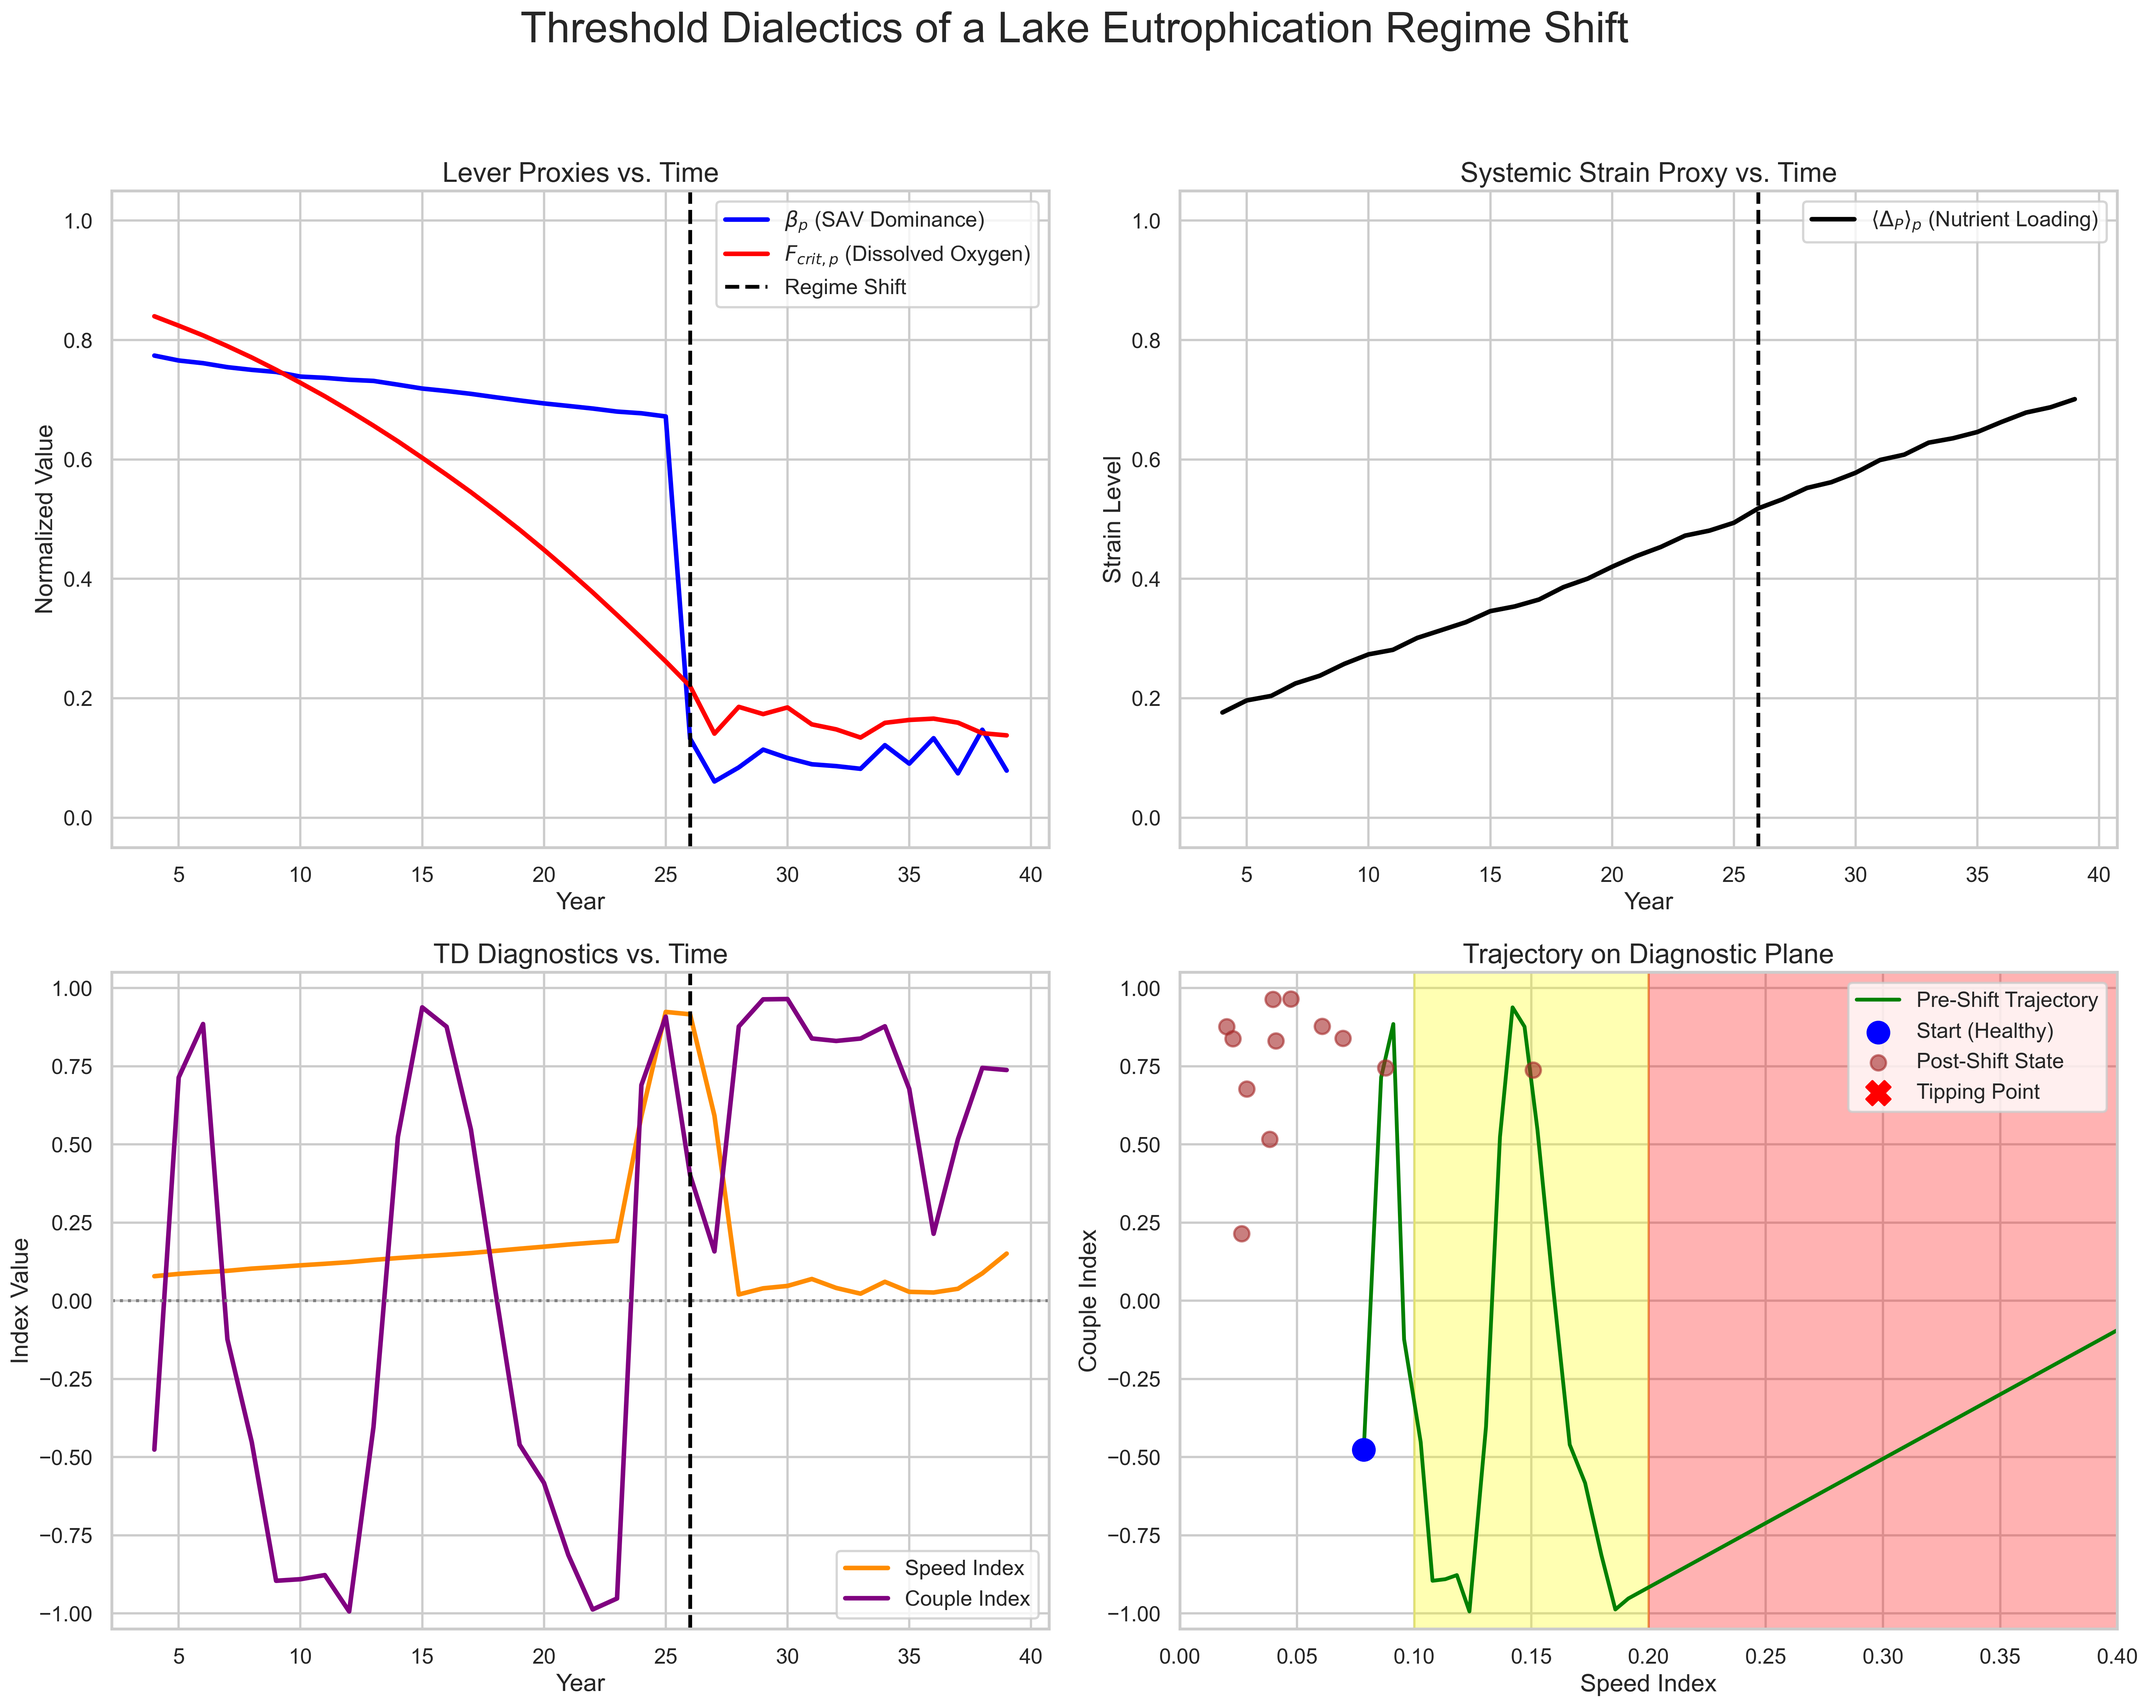
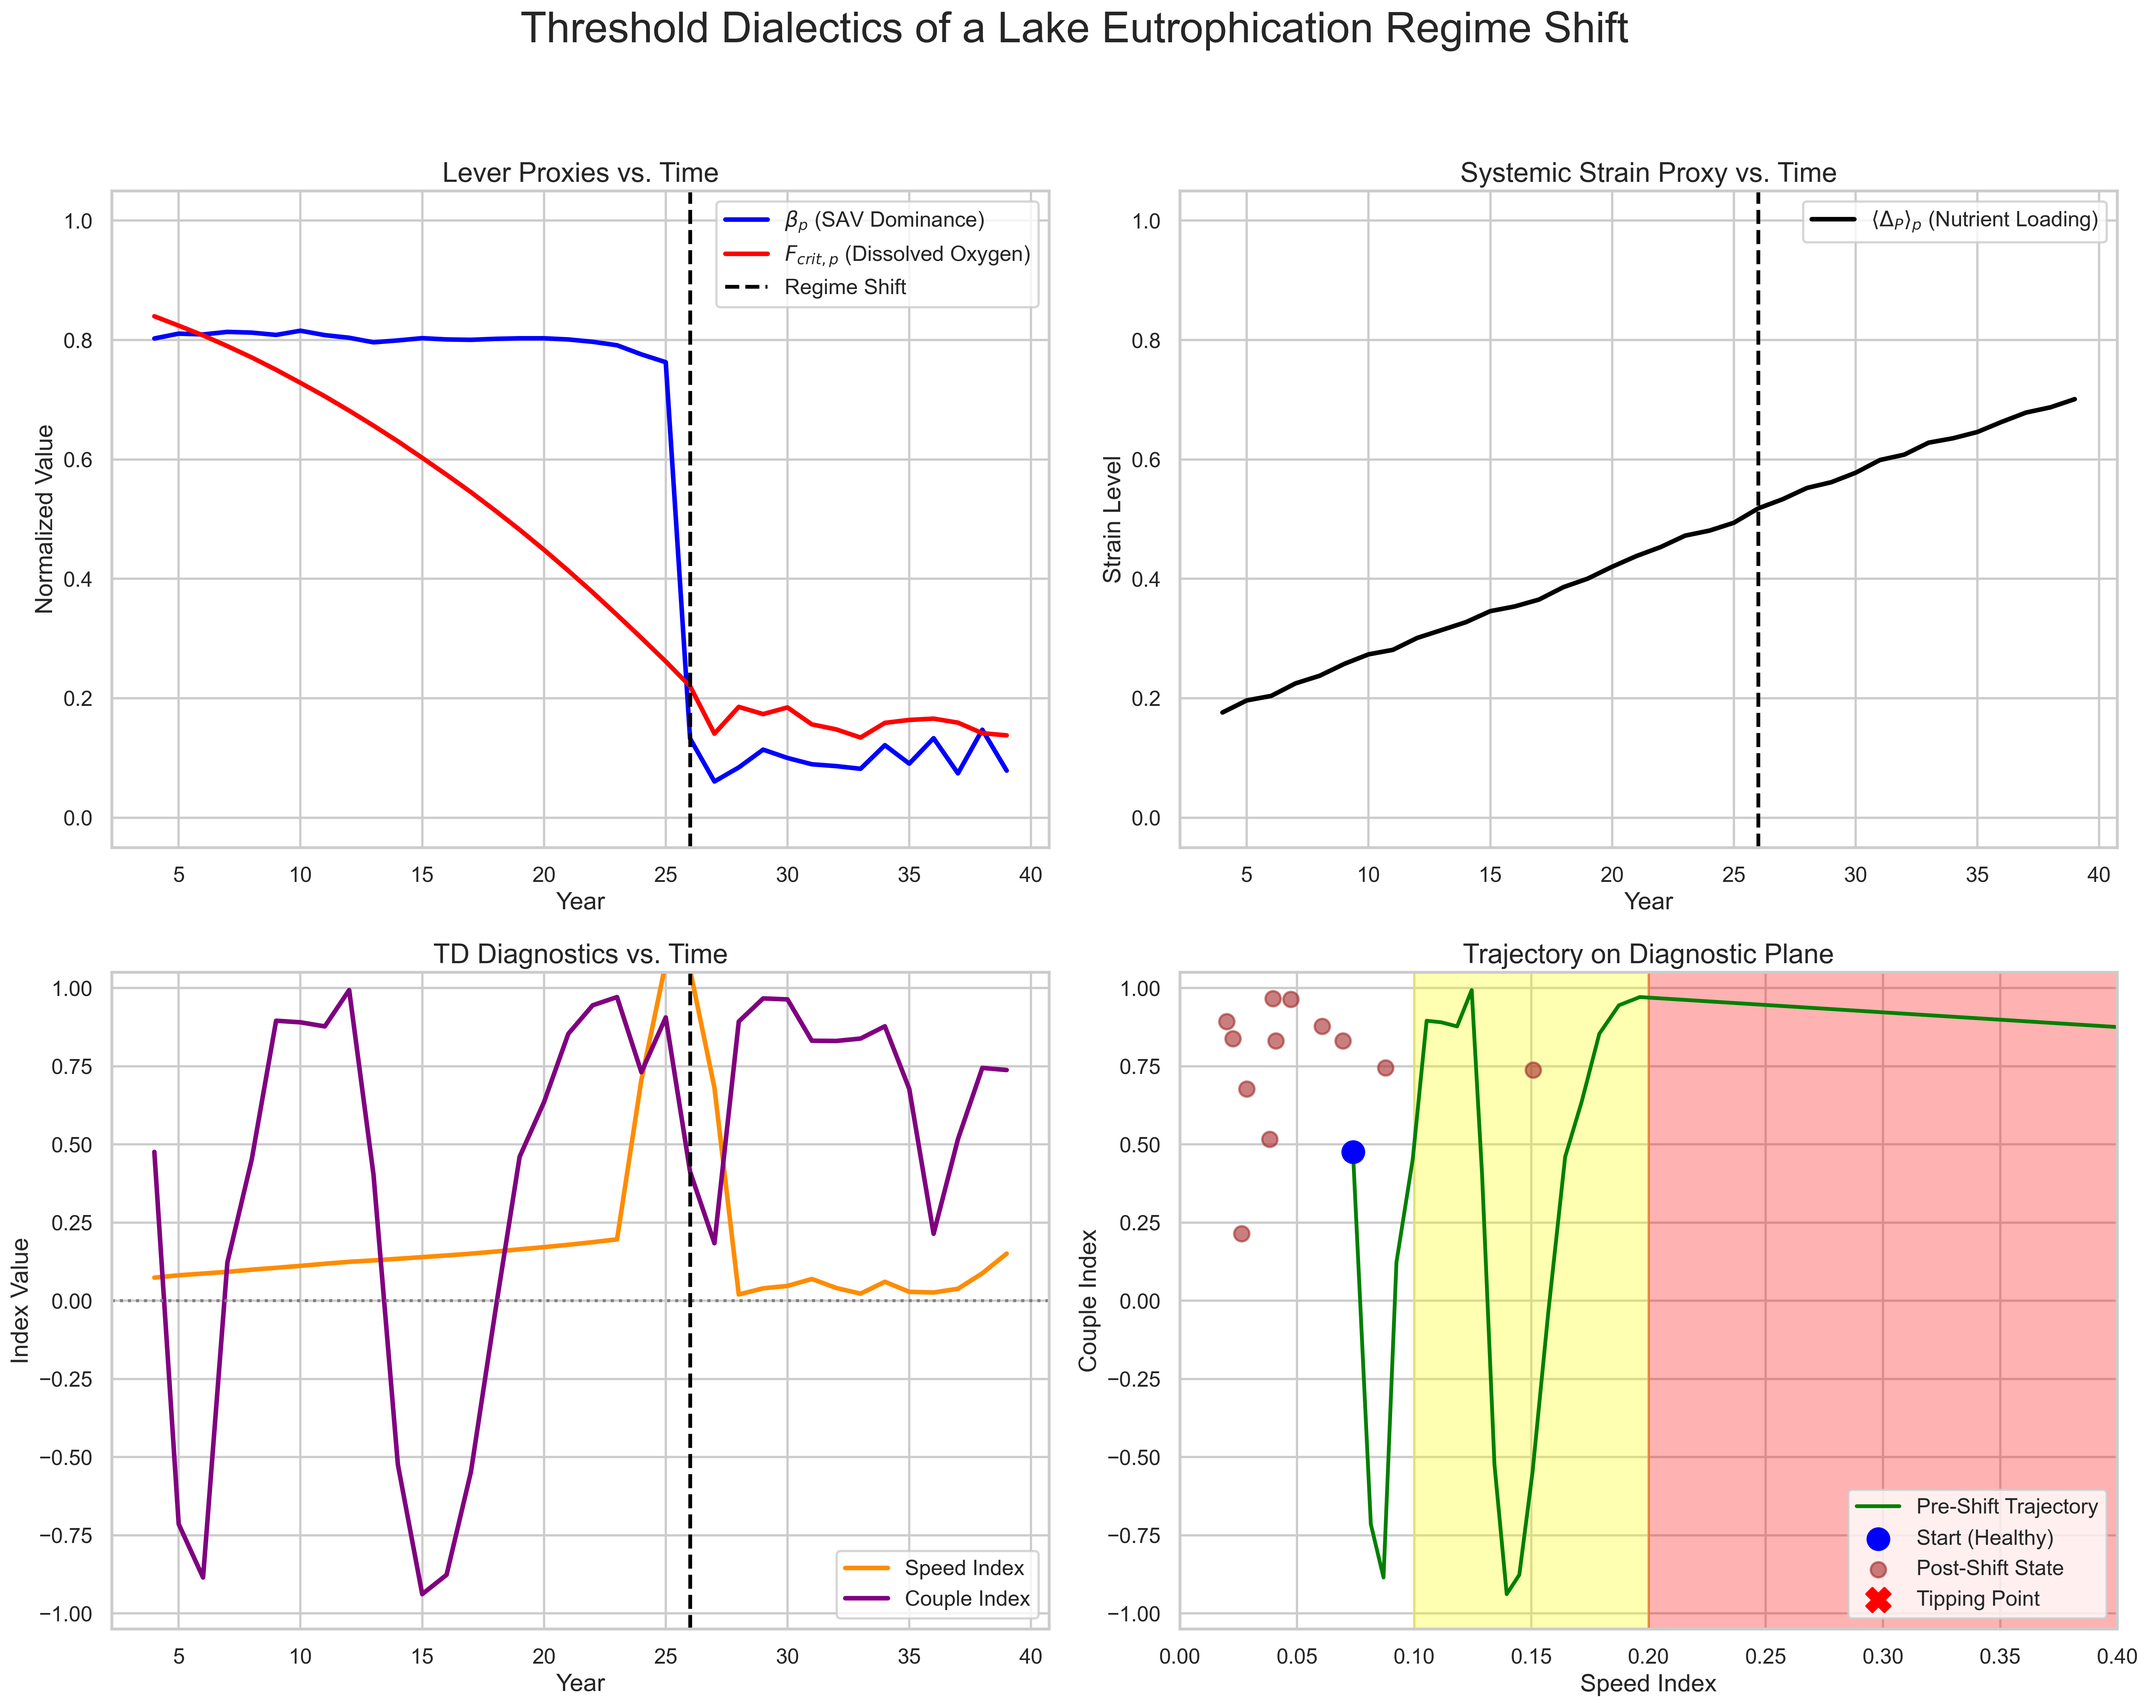
Completed

diff --git a/echo_bubble_19A.py b/echo_bubble_19A.py
@@ -141,93 +141,130 @@ def calculate_td_diagnostics(df, couple_window=10, smooth_window=7):
     return df.dropna()
 
 def plot_financial_cascade(df):
-    """Generates a 2x2 plot for the full bubble lifecycle."""
+    """
+    Generates a final, PUBLICATION-QUALITY 2x2 plot for the bubble lifecycle,
+    using a unified color scheme and a high-contrast "cased line" for clarity.
+    """
+    # Use the seaborn 'whitegrid' style for consistency with the lake figure
+    sns.set_theme(style="whitegrid", context="talk")
+    
     fig, axes = plt.subplots(2, 2, figsize=(20, 16))
     fig.suptitle('Threshold Dialectics of a Financial "Echo Bubble"', fontsize=28, y=0.98)
-    
-    # --- Define colors for phases ---
-    phase_colors = {
-        'P1_Lull': 'gray', 'P2_Emerge': 'lightblue', 'P3_Inflate': 'lightcoral',
-        'P4_Fragility': 'lightsalmon', 'P5_Correct': 'lightskyblue', 'P6_Reset': 'lightgray'
-    }
 
-    # --- Panel 1: Lever Proxies ---
+    # --- FINAL, REFINED Narrative and Styling Configuration ---
+    # Unified color palette with more distinct colors for each narrative phase
+    NARRATIVE_COLORS = {
+        'Pre-Bubble (P1-P2)': '#B0C4DE',  # Light Steel Blue
+        'Inflation (P3-P4)': '#FF6347',    # Tomato Red (More vibrant)
+        'Correction (P5-P6)': '#87CEEB', # Sky Blue (Distinct from Pre-Bubble)
+    }
+    # Map individual phases to their narrative group color
+    PHASE_TO_NARRATIVE_COLOR = {
+        'P1_Lull': NARRATIVE_COLORS['Pre-Bubble (P1-P2)'],
+        'P2_Emerge': NARRATIVE_COLORS['Pre-Bubble (P1-P2)'],
+        'P3_Inflate': NARRATIVE_COLORS['Inflation (P3-P4)'],
+        'P4_Fragility': NARRATIVE_COLORS['Inflation (P3-P4)'],
+        'P5_Correct': NARRATIVE_COLORS['Correction (P5-P6)'],
+        'P6_Reset': NARRATIVE_COLORS['Correction (P5-P6)'],
+    }
+    LINE_COLORS = {'beta_p': 'blue', 'fcrit_p': 'red', 'strain_p': 'black',
+                   'SpeedIndex': 'darkorange', 'CoupleIndex': 'purple'}
+
+    # --- Identify Key Event Time for Annotation ---
+    correction_start_week = df[df['phase'] == 'P5_Correct'].index.min()
+
+    # --- Time-Series Plots (Panels 1, 2, 3) ---
+    # Panel 1: Lever Proxies
     ax = axes[0, 0]
-    ax.plot(df.index, df['beta_p'], color='blue', lw=3, label=r'$\beta_p$ (Valuation Consensus)')
-    ax.plot(df.index, df['fcrit_p'], color='red', lw=3, label=r'$F_{crit,p}$ (Margin Debt)')
+    ax.plot(df.index, df['beta_p'], color=LINE_COLORS['beta_p'], lw=3, label=r'$\beta_p$ (Valuation Consensus)')
+    ax.plot(df.index, df['fcrit_p'], color=LINE_COLORS['fcrit_p'], lw=3, label=r'$F_{crit,p}$ (Margin Debt)')
+    ax.axvline(correction_start_week, color='black', linestyle='--', lw=2.5, label='Correction Start')
     ax.set_title('Lever Proxies vs. Time', fontsize=18)
     ax.set_ylabel('Normalized Value', fontsize=16)
-    ax.set_ylim(-0.05, 1.05)
-    ax.legend(loc='best', fontsize=14)
-    
-    # --- Panel 2: Systemic Strain ---
+    ax.legend(loc='upper left', fontsize=14)
+
+    # Panel 2: Systemic Strain
     ax = axes[0, 1]
-    ax.plot(df.index, df['strain_p'], color='black', lw=3, label=r'$\langle\Delta_P\rangle_p$ (Price Deviation)')
+    ax.plot(df.index, df['strain_p'], color=LINE_COLORS['strain_p'], lw=3, label=r'$\langle\Delta_P\rangle_p$ (Price Deviation)')
+    ax.axvline(correction_start_week, color='black', linestyle='--', lw=2.5)
     ax.set_title('Systemic Strain Proxy vs. Time', fontsize=18)
-    ax.set_ylabel('Strain Level', fontsize=16)
-    ax.set_ylim(-0.05, 1.05)
-    ax.legend(loc='best', fontsize=14)
-         
-    # --- Panel 3: TD Diagnostics ---
+    ax.legend(loc='upper left', fontsize=14)
+
+    # Panel 3: TD Diagnostics
     ax = axes[1, 0]
-    ax.plot(df.index, df['SpeedIndex'], color='darkorange', lw=3, label='Speed Index')
-    ax.plot(df.index, df['CoupleIndex'], color='purple', lw=3, label='Couple Index')
+    ax.plot(df.index, df['SpeedIndex'], color=LINE_COLORS['SpeedIndex'], lw=3, label='Speed Index')
+    ax.plot(df.index, df['CoupleIndex'], color=LINE_COLORS['CoupleIndex'], lw=3, label='Couple Index')
     ax.axhline(0, color='gray', linestyle=':', lw=2)
+    ax.axvline(correction_start_week, color='black', linestyle='--', lw=2.5)
     ax.set_title('TD Diagnostics vs. Time', fontsize=18)
     ax.set_ylabel('Index Value', fontsize=16)
-    ax.set_ylim(-1.05, 1.05)
     ax.legend(loc='best', fontsize=14)
-    
-    # --- Panel 4: S/C Diagnostic Plane ---
+
+    # --- Panel 4: Trajectory on Diagnostic Plane (FINAL POLISHED VERSION) ---
     ax = axes[1, 1]
     # Risk zones
-    ax.axvspan(0.04, 0.08, color='yellow', alpha=0.3)
-    ax.axvspan(0.08, 0.2, color='red', alpha=0.3)
-    ax.axhspan(0.5, 1.05, color='red', alpha=0.3)
-    
-    # Plot trajectory with color gradient over time
-    points = np.array([df['SpeedIndex'], df['CoupleIndex']]).T.reshape(-1, 1, 2)
-    segments = np.concatenate([points[:-1], points[1:]], axis=1)
-    norm = plt.Normalize(df.index.min(), df.index.max())
-    lc = plt.cm.plasma(norm(df.index))
-    
-    for i in range(len(df)-1):
-        ax.plot(df['SpeedIndex'][i:i+2], df['CoupleIndex'][i:i+2], color=lc[i], lw=2.5)
+    ax.axvspan(0.06, 0.1, color='yellow', alpha=0.3, zorder=-2)
+    ax.axvspan(0.1, 0.2, color='red', alpha=0.3, zorder=-2)
+    ax.axhspan(0.7, 1.05, color='red', alpha=0.3, zorder=-2)
+    ax.axhspan(-1.05, -0.7, color='red', alpha=0.3, zorder=-2)
+
+    # Plot trajectories with special handling for the Inflation phase
+    for group_name, color in NARRATIVE_COLORS.items():
+        phase_list = [p for p, c in PHASE_TO_NARRATIVE_COLOR.items() if c == color]
+        group_data = df[df['phase'].isin(phase_list)]
+        
+        # --- THIS IS THE KEY IMPROVEMENT ---
+        if group_name == 'Inflation (P3-P4)':
+            # Plot a thicker black line underneath to create a "cased line" effect
+            ax.plot(group_data['SpeedIndex'], group_data['CoupleIndex'],
+                    color='black', lw=5, zorder=3)
+            # Plot the main colored line on top
+            ax.plot(group_data['SpeedIndex'], group_data['CoupleIndex'],
+                    color=color, lw=3, label=group_name, zorder=4)
+        else:
+            # Plot other phases normally
+            ax.plot(group_data['SpeedIndex'], group_data['CoupleIndex'],
+                    color=color, lw=4, label=group_name, zorder=2) # zorder=2 to be behind markers
+            
+    # Add key event markers with enhanced visibility
+    start_point = df.iloc[0]
+    correction_point = df.loc[correction_start_week]
+    ax.scatter(start_point['SpeedIndex'], start_point['CoupleIndex'],
+               marker='o', s=250, color='blue', ec='black', lw=1.5, zorder=5, label='Start')
+    ax.scatter(correction_point['SpeedIndex'], correction_point['CoupleIndex'],
+               marker='X', s=300, color='white', ec='black', lw=1.5, zorder=5, label='Correction Start') # White 'X' for max contrast
 
     ax.set_title('Trajectory on Diagnostic Plane', fontsize=18)
     ax.set_xlabel('Speed Index', fontsize=16)
     ax.set_ylabel('Couple Index', fontsize=16)
     ax.set_xlim(0, 0.15)
     ax.set_ylim(-1.05, 1.05)
+    ax.legend(title="Trajectory & Events", loc='lower right', fontsize=12, title_fontsize=13)
 
-    # Annotate phases on the trajectory plot
-    phase_points = df.groupby('phase').first()
-    for phase, row in phase_points.iterrows():
-        ax.annotate(phase, (row['SpeedIndex'], row['CoupleIndex']),
-                    textcoords="offset points", xytext=(-10, 10), ha='center',
-                    arrowprops=dict(arrowstyle="->", connectionstyle="arc3,rad=.2"),
-                    bbox=dict(boxstyle="round,pad=0.3", fc="white", ec="black", lw=1, alpha=0.7),
-                    fontsize=12)
-
-    # Add phase backgrounds to time series plots
-    for ax_ts in [axes[0,0], axes[0,1], axes[1,0]]:
-        for phase, color in phase_colors.items():
-            phase_data = df[df['phase'] == phase]
+    # Apply UNIFIED Narrative Phase Backgrounds to all Time-Series Plots
+    for ax_ts in [axes[0, 0], axes[0, 1], axes[1, 0]]:
+        for phase_name, color in PHASE_TO_NARRATIVE_COLOR.items():
+            phase_data = df[df['phase'] == phase_name]
             if not phase_data.empty:
-                ax_ts.axvspan(phase_data.index.min(), phase_data.index.max(), color=color, alpha=0.2, zorder=-1)
+                ax_ts.axvspan(phase_data.index.min(), phase_data.index.max(),
+                              color=color, alpha=0.2, zorder=-1)
 
+    # Final Polish on all Axes
     for ax_row in axes:
         for ax_col in ax_row:
             if ax_col is not axes[1, 1]:
                 ax_col.set_xlabel('Week', fontsize=16)
+                # Remove y-axis labels for strain and index plots for cleaner look if desired
+                # (Optional, but can improve dashboard feel)
+                if ax_col in [axes[0, 1], axes[1, 0]]:
+                    ax_col.set_ylabel('')
             ax_col.tick_params(axis='both', which='major', labelsize=14)
 
-    
     plt.tight_layout(rect=[0, 0, 1, 0.95])
     plt.savefig("financial_bubble_dashboard.png", dpi=300, bbox_inches='tight')
     plt.show()
 
-# --- NEW FUNCTION FOR STATISTICAL ANALYSIS ---
+
 def run_statistical_analysis(df):
     """Runs and prints statistical tests to support the chapter's narrative."""
     print("\n" + "="*80)

diff --git a/lake_eutrophication_19B.py b/lake_eutrophication_19B.py
@@ -67,8 +67,10 @@ class LakeEcosystem:
             
             # 3. SAV dominance (Rigidity) is highly resilient... at first.
             # It changes very little, showing the system's apparent stability.
-            self.sav_dominance -= np.random.normal(0.005, 0.002)
-
+            #self.sav_dominance -= np.random.normal(0.005, 0.002)
+            if self.dissolved_oxygen < 0.4: # Introduce a threshold for SAV stress
+                self.sav_dominance -= (0.4 - self.dissolved_oxygen) * 0.1 
+            self.sav_dominance += np.random.normal(0, 0.005) # Add some noise
             # 4. Check for the tipping point
             if self.dissolved_oxygen < self.oxygen_collapse_threshold:
                 self.has_collapsed = True
